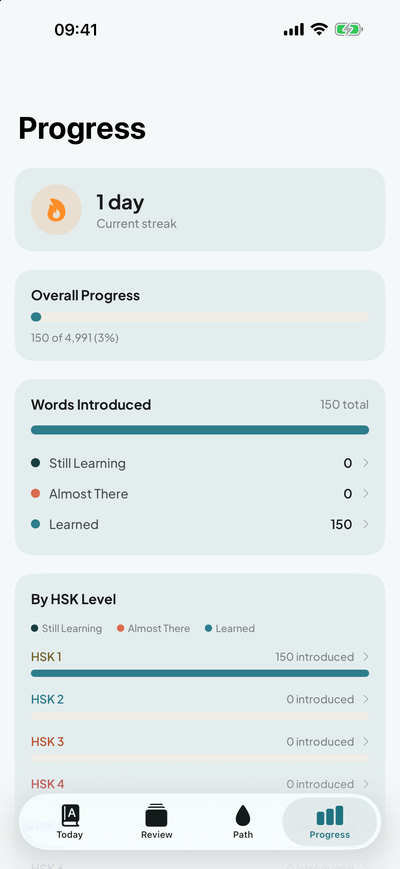
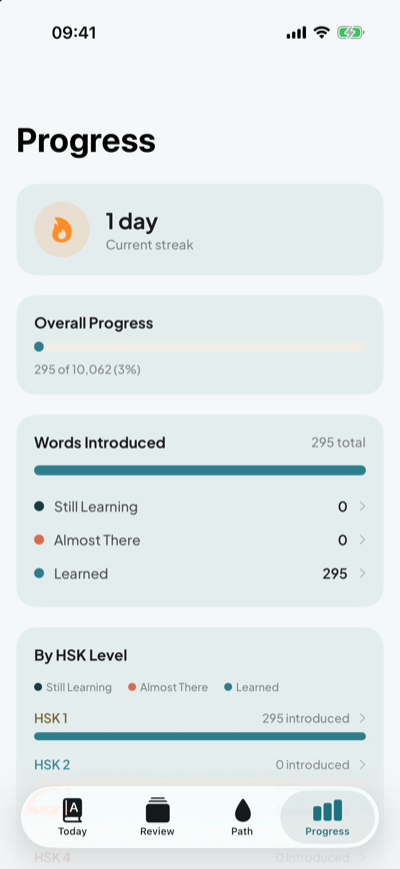
Retake the Progress screenshot for v1.5 (295 of 10,062)

diff --git a/th/index.html b/th/index.html
@@ -284,7 +284,7 @@
       <div style="flex: 1 1 300px; min-width: 0; display: flex; justify-content: center">
         <picture>
           <source type="image/webp" srcset="../screenshots/progress-400.webp 400w, ../screenshots/progress-800.webp 800w" sizes="320px">
-          <img src="../screenshots/progress-800.png" srcset="../screenshots/progress-400.png 400w, ../screenshots/progress-800.png 800w" sizes="320px" alt="หน้าจอ Progress ของ HanziDrip แสดงสถิติวันต่อเนื่อง ความคืบหน้ารวมจากทั้งหมด 4,991 คำ และสรุปแยกตามระดับ HSK" loading="lazy" style="width: 100%; max-width: 320px; height: auto; display: block; border-radius: 32px; box-shadow: 0 24px 60px rgba(23,60,66,0.16)">
+          <img src="../screenshots/progress-800.png" srcset="../screenshots/progress-400.png 400w, ../screenshots/progress-800.png 800w" sizes="320px" alt="หน้าจอ Progress ของ HanziDrip แสดงสถิติวันต่อเนื่อง ความคืบหน้ารวมจากทั้งหมด 10,062 คำ และสรุปแยกตามระดับ HSK" loading="lazy" style="width: 100%; max-width: 320px; height: auto; display: block; border-radius: 32px; box-shadow: 0 24px 60px rgba(23,60,66,0.16)">
         </picture>
       </div>
     </div>

diff --git a/index.html b/index.html
@@ -283,7 +283,7 @@
       <div style="flex: 1 1 300px; min-width: 0; display: flex; justify-content: center">
         <picture>
           <source type="image/webp" srcset="screenshots/progress-400.webp 400w, screenshots/progress-800.webp 800w" sizes="320px">
-          <img src="screenshots/progress-800.png" srcset="screenshots/progress-400.png 400w, screenshots/progress-800.png 800w" sizes="320px" alt="HanziDrip Progress screen showing current streak, overall progress out of 4,991 words, and a breakdown by HSK level" loading="lazy" style="width: 100%; max-width: 320px; height: auto; display: block; border-radius: 32px; box-shadow: 0 24px 60px rgba(23,60,66,0.16)">
+          <img src="screenshots/progress-800.png" srcset="screenshots/progress-400.png 400w, screenshots/progress-800.png 800w" sizes="320px" alt="HanziDrip Progress screen showing current streak, overall progress out of 10,062 words, and a breakdown by HSK level" loading="lazy" style="width: 100%; max-width: 320px; height: auto; display: block; border-radius: 32px; box-shadow: 0 24px 60px rgba(23,60,66,0.16)">
         </picture>
       </div>
     </div>
